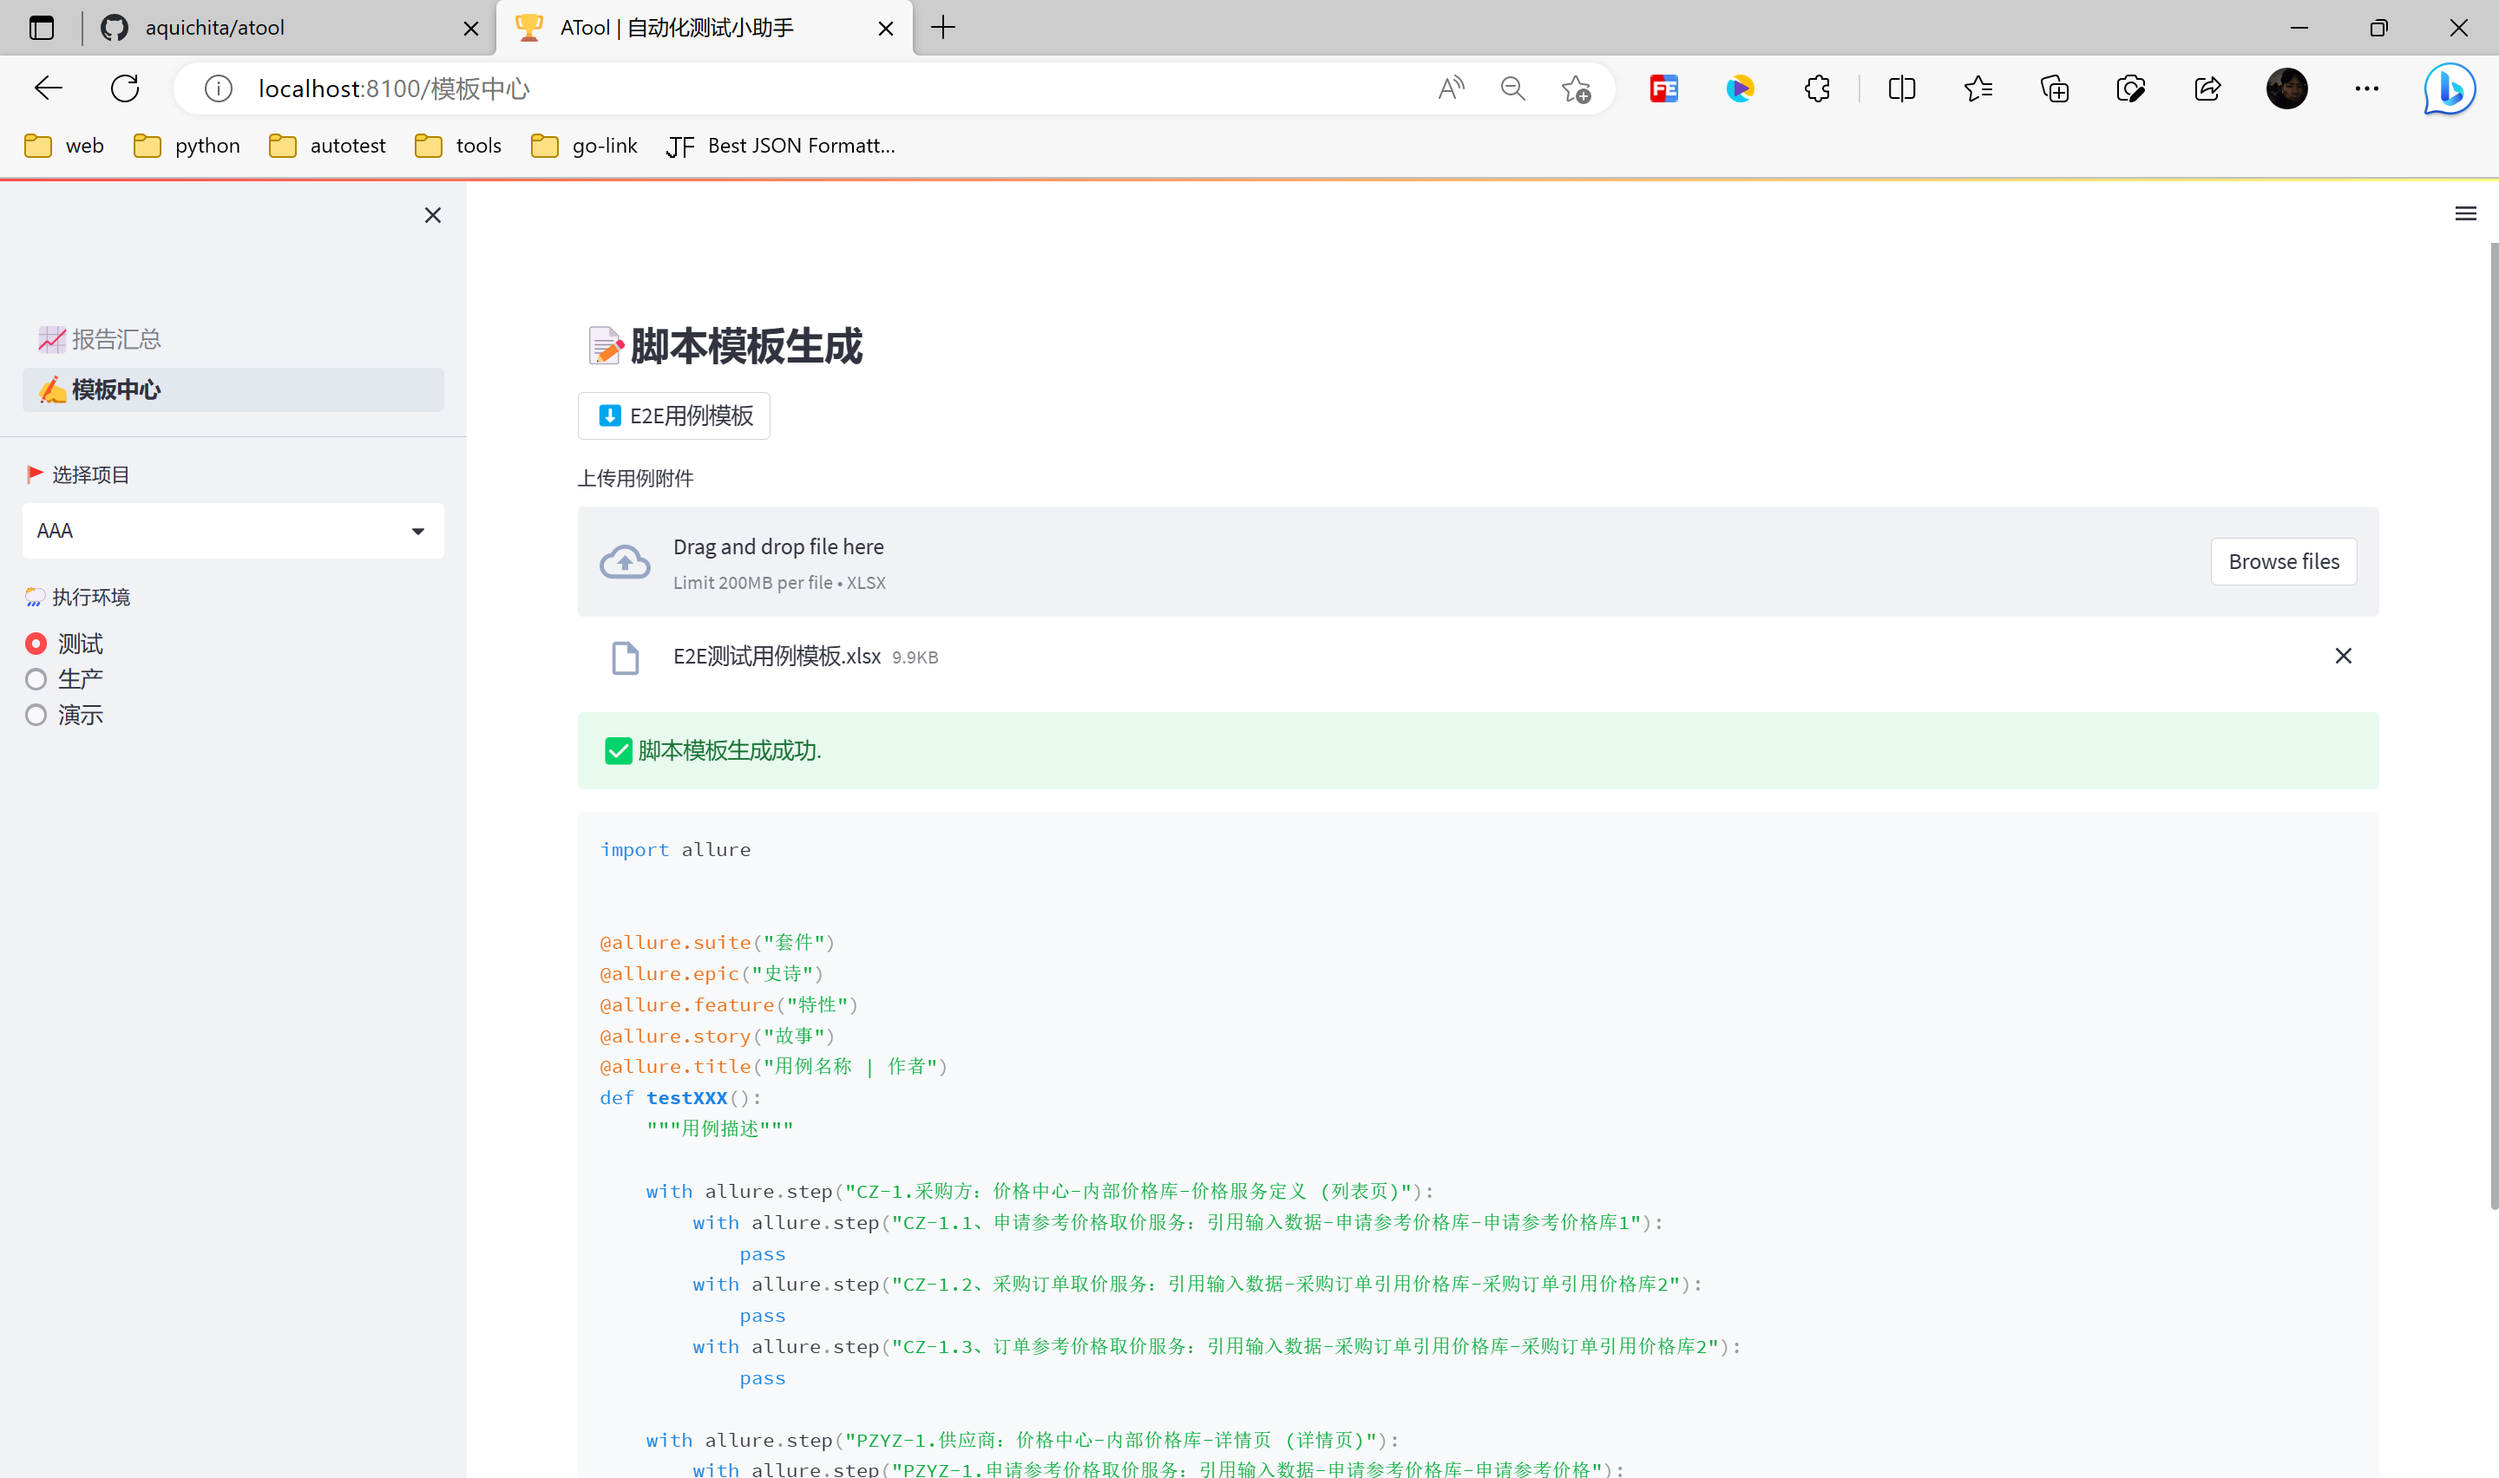
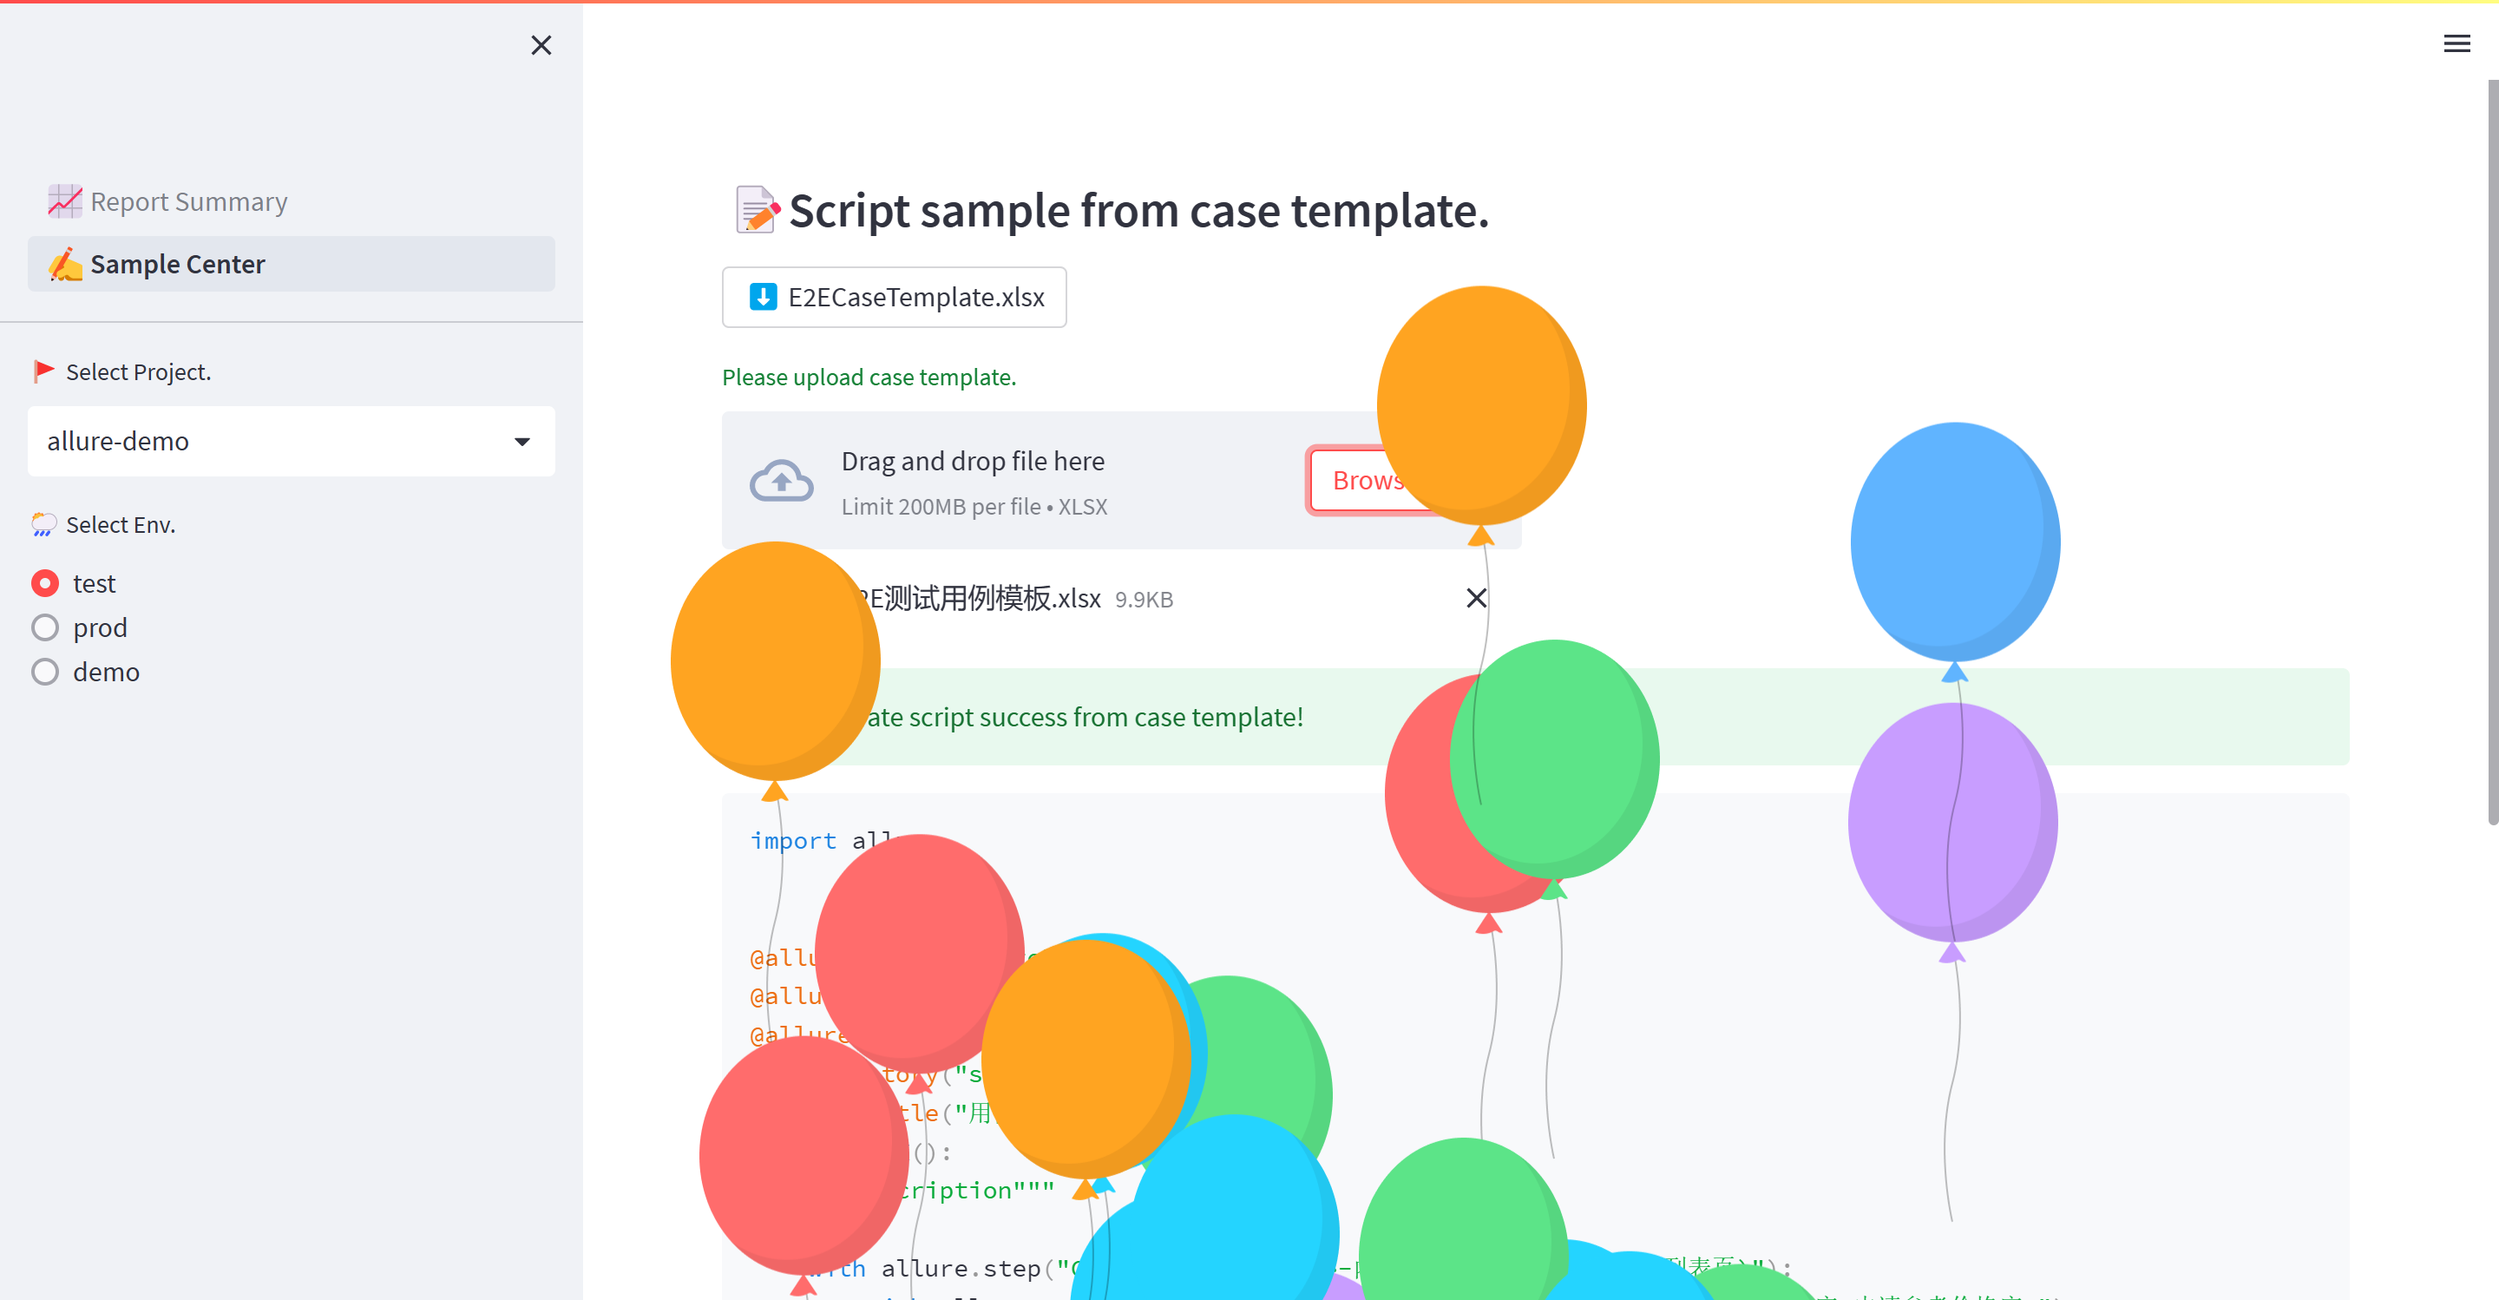
feature: 添加账号管理路由

diff --git a/initialize.py b/initialize.py
@@ -4,7 +4,7 @@ import streamlit as st
 def setup(title: str):
     """global setup. include icon,title,width,project,env."""
     st.set_page_config(
-        page_title="ATool | automation handler",
+        page_title="ATool | A small automation handler.",
         page_icon="🏆",
         layout="wide",
         initial_sidebar_state="expanded",
@@ -12,7 +12,7 @@ def setup(title: str):
     st.subheader(title)
     project = st.sidebar.selectbox("🚩 Select Project.", ("allure-demo",), index=0)
     with st.sidebar:
-        env = st.radio("🌦 Env", ("test", "prod", "demo"))
+        env = st.radio("🌦 Select Env.", ("test", "prod", "demo"))
 
     st.session_state.project = project
     st.session_state.env = env

diff --git a/pages/02_🏊_Account_Management.py b/pages/02_🏊_Account_Management.py
@@ -1,0 +1,3 @@
+import initialize
+
+initialize.setup(title="🏊 Account Management.")

diff --git a/README.md b/README.md
@@ -1,5 +1,5 @@
 ## 自动化测试小助手项目
-[![Streamlit App](https://static.streamlit.io/badges/streamlit_badge_black_white.svg)](https://aquichita-atool-00---u7m8dc.streamlit.app)
+[![Streamlit App](https://static.streamlit.io/badges/streamlit_badge_black_white.svg)](https://aquichita-atool-00--report-summary-mnqdxe.streamlit.app/)
 
 ---
 
